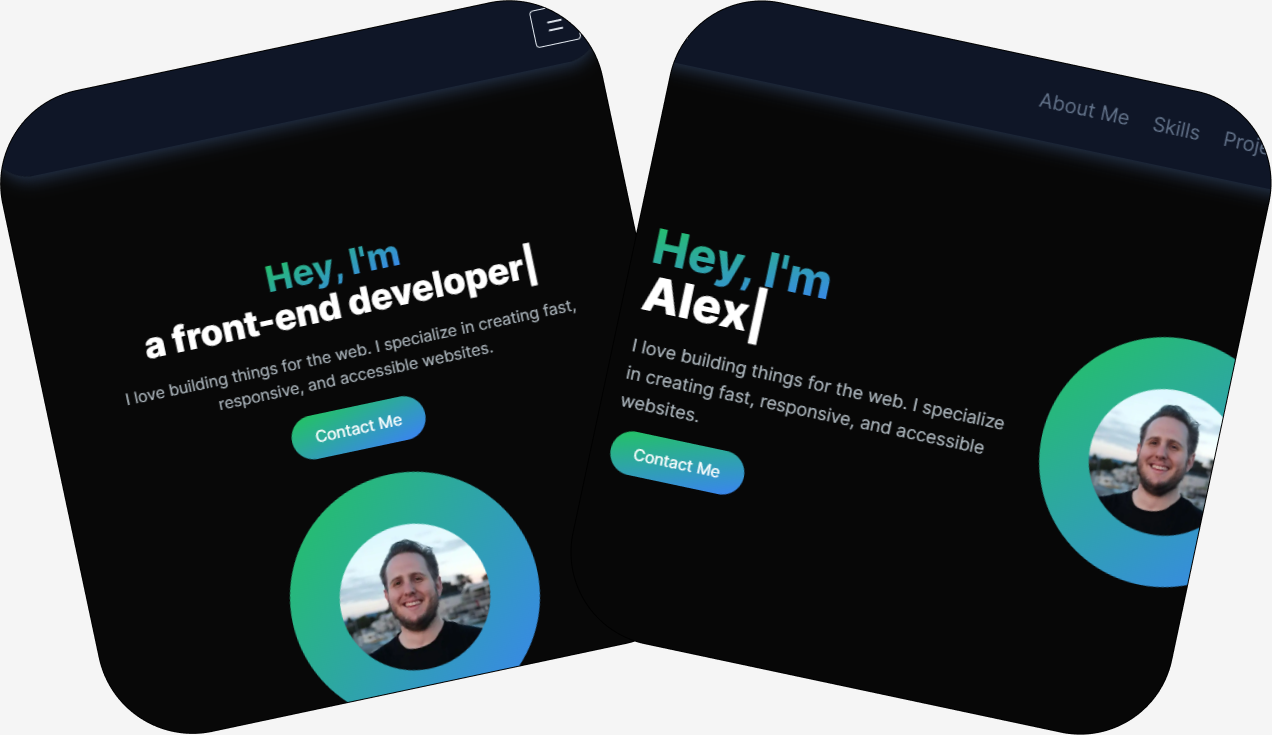
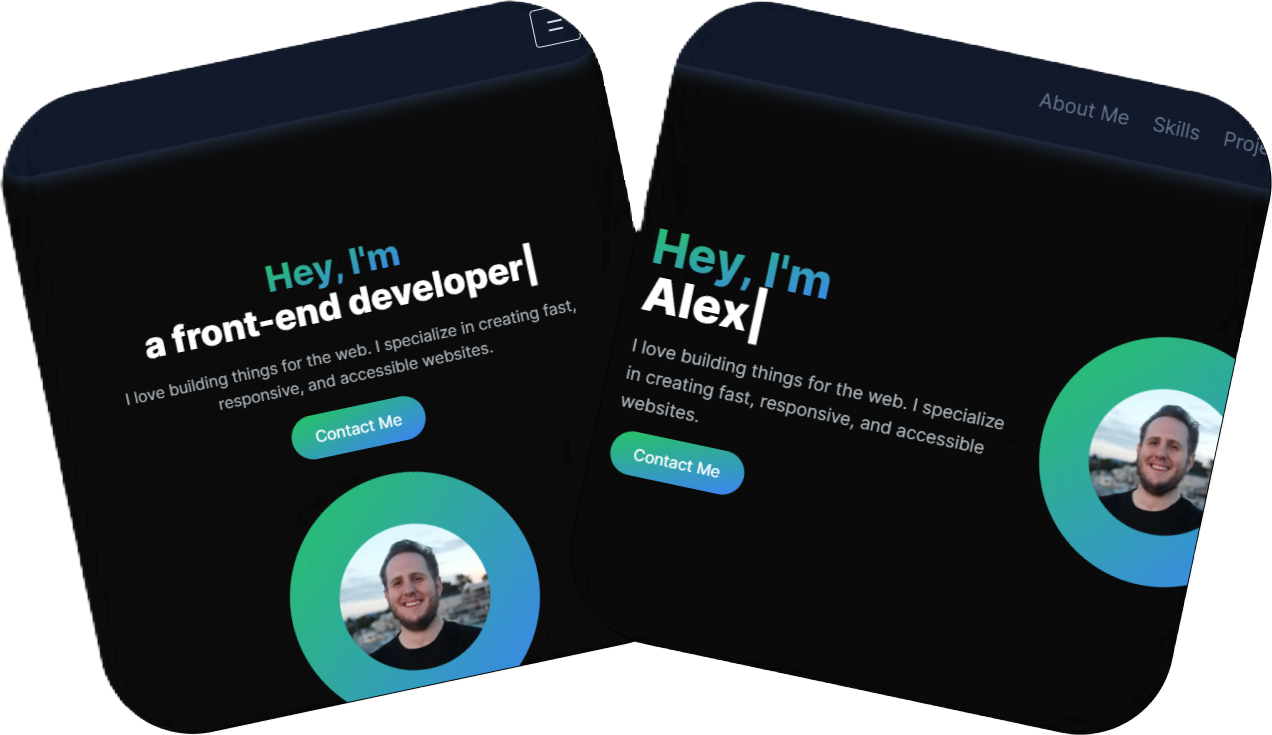
updated website hero image for project data

diff --git a/src/app/component/ProjectData.tsx b/src/app/component/ProjectData.tsx
@@ -3,7 +3,7 @@ const ProjectData = [
         id: 1,
         title: "Portfolio Website",
         description: "My portfolio website is intended to in itself be a showcase of my skills and abilities and introduce future projects that I will be working on.",
-        image: "/images/test-port-img.png",
+        image: "/images/portfolio-website.png",
         githubUrl: "https://github.com/aellis815/portfolio-website",
         websiteUrl: "/",
         tags: ["React", "TailwindCSS", "TypeScript", "Next.js", "Vercel"]
